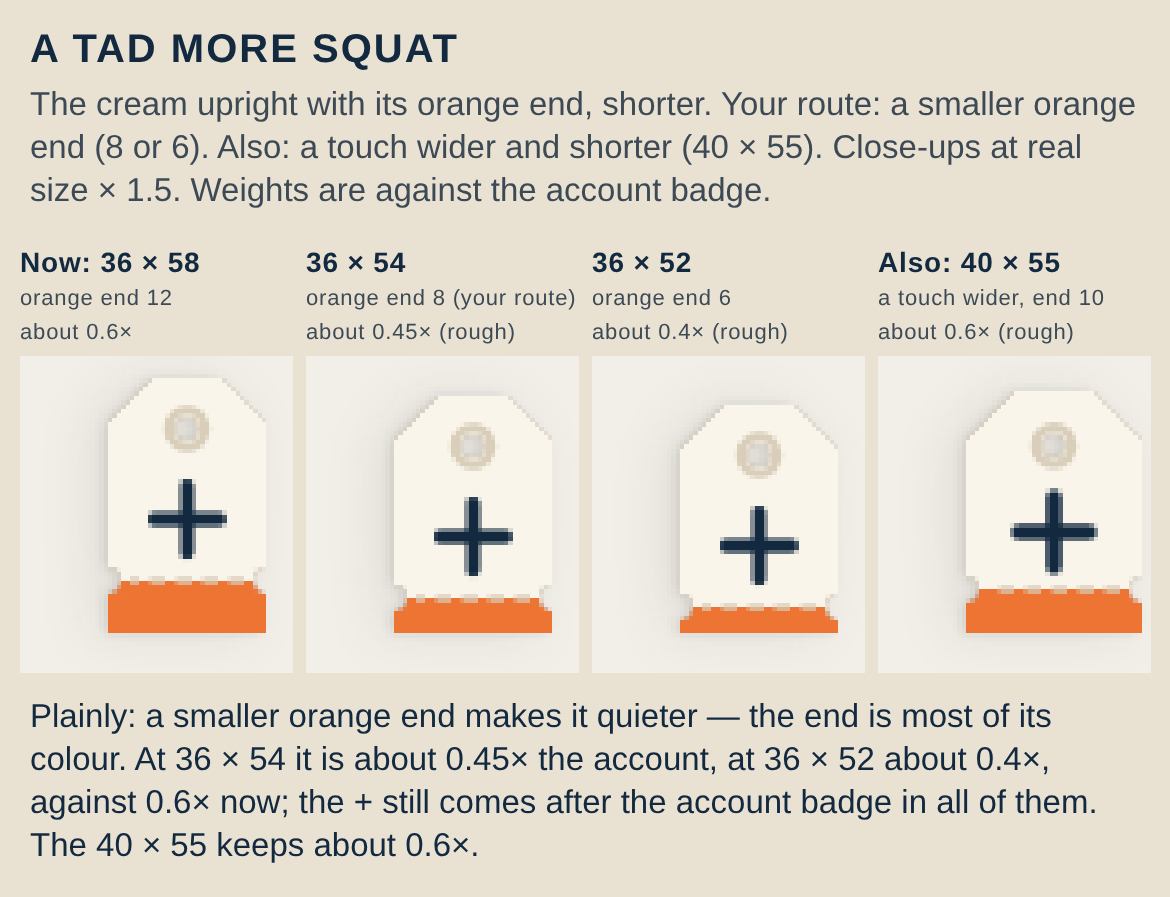
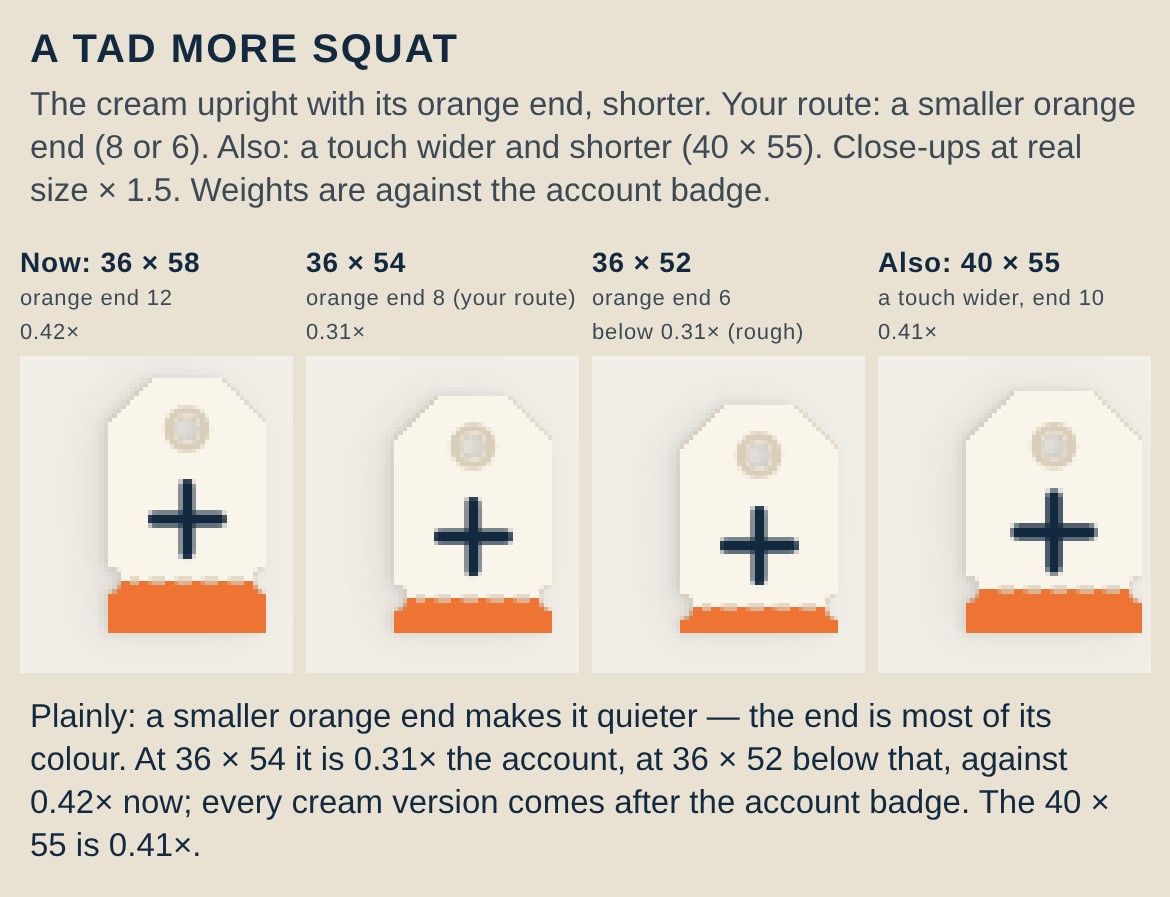
+ placement: round 11c sent (decision)

diff --git a/design/add-button-placement/concepts/blank-tag-form/compose.js b/design/add-button-placement/concepts/blank-tag-form/compose.js
@@ -209,13 +209,13 @@ const pages = {
      <div class="row" style="padding:0 12px;gap:12px;align-items:flex-end">${col('320 × 568', crop(f('r11v-orange-p4-up-320'), 0, 0, 320, 568, 372 / 320, 320, 'border:1px solid #cfc4ae'), 374)}${col('List down', crop(f('r11v-orange-p4-up-collapsed'), 0, 270, 390, 844, 372 / 390, 390, 'border:1px solid #cfc4ae'), 374)}${col('A tag open', crop(f('r11v-orange-p4-up-tag664'), 0, 0, 390, 664, 372 / 390, 390, 'border:1px solid #cfc4ae'), 374)}</div><div class="gap"></div>`,
   // ================= ROUND 11c: a tad more squat =================
   [R11 + 'Q1-squat-options-3x.png']: `${cap('A tad more squat', 'The cream upright with its orange end, shorter. Your route: a smaller orange end (8 or 6). Also: a touch wider and shorter (40 × 55). Close-ups at real size × 1.5. Weights are against the account badge.')}
-     <div class="row" style="padding:0 20px;gap:14px">${col('Now: 36 × 58<br><span style="font-weight:400;font-size:22px;color:#3d4a55">orange end 12<br>about 0.6×</span>', crop1(f('r11v-twoend-p6-up-1x'), 0, 455, 62, 527, 4.4), 272)}${col('36 × 54<br><span style="font-weight:400;font-size:22px;color:#3d4a55">orange end 8 (your route)<br>about 0.45× (rough)</span>', crop1(f('r11q-twoend-q1-up-1x'), 0, 455, 62, 527, 4.4), 272)}${col('36 × 52<br><span style="font-weight:400;font-size:22px;color:#3d4a55">orange end 6<br>about 0.4× (rough)</span>', crop1(f('r11q-twoend-q2-up-1x'), 0, 455, 62, 527, 4.4), 272)}${col('Also: 40 × 55<br><span style="font-weight:400;font-size:22px;color:#3d4a55">a touch wider, end 10<br>about 0.6× (rough)</span>', crop1(f('r11q-twoend-q3-up-1x'), 0, 455, 62, 527, 4.4), 272)}</div>
-     ${note('Plainly: a smaller orange end makes it quieter — the end is most of its colour. At 36 × 54 it is about 0.45× the account, at 36 × 52 about 0.4×, against 0.6× now; the + still comes after the account badge in all of them. The 40 × 55 keeps about 0.6×.')}`,
+     <div class="row" style="padding:0 20px;gap:14px">${col('Now: 36 × 58<br><span style="font-weight:400;font-size:22px;color:#3d4a55">orange end 12<br>0.42×</span>', crop1(f('r11v-twoend-p6-up-1x'), 0, 455, 62, 527, 4.4), 272)}${col('36 × 54<br><span style="font-weight:400;font-size:22px;color:#3d4a55">orange end 8 (your route)<br>0.31×</span>', crop1(f('r11q-twoend-q1-up-1x'), 0, 455, 62, 527, 4.4), 272)}${col('36 × 52<br><span style="font-weight:400;font-size:22px;color:#3d4a55">orange end 6<br>below 0.31× (rough)</span>', crop1(f('r11q-twoend-q2-up-1x'), 0, 455, 62, 527, 4.4), 272)}${col('Also: 40 × 55<br><span style="font-weight:400;font-size:22px;color:#3d4a55">a touch wider, end 10<br>0.41×</span>', crop1(f('r11q-twoend-q3-up-1x'), 0, 455, 62, 527, 4.4), 272)}</div>
+     ${note('Plainly: a smaller orange end makes it quieter — the end is most of its colour. At 36 × 54 it is 0.31× the account, at 36 × 52 below that, against 0.42× now; every cream version comes after the account badge. The 40 × 55 is 0.41×.')}`,
   [R11 + 'Q2-squat-real-size-3x.png']: `${cap('36 × 54 (end 8) at real size', 'As your phone shows it, with the app’s own pins and the account badge.')}
      ${crop1(f('r11q-twoend-q1-up-1x'), 0, 0, 390, 544, 3)}<div class="gap"></div>`,
   [R11 + 'Q3-squat-vs-now-3x.png']: `${cap('Now vs a tad more squat', 'Left: 36 × 58, end 12 (now). Right: 36 × 54, end 8.')}
      ${pair(f('r11v-twoend-p6-up'), '36 × 58 (now)', f('r11q-twoend-q1-up'), '36 × 54', 640)}<div class="gap"></div>`,
-  [R11 + 'Q4-squat-alternative-3x.png']: `${cap('Also: 40 × 55', 'Squatter by being a touch wider as well as shorter, so the orange end can stay at 10 and keep its weight. Left: 36 × 54 (end 8). Right: 40 × 55.')}
+  [R11 + 'Q4-squat-alternative-3x.png']: `${cap('Also: 40 × 55', 'Squatter by being a touch wider as well as shorter, so the orange end can stay at 10: it keeps the most weight of the squat versions. Left: 36 × 54 (end 8). Right: 40 × 55.')}
      ${pair(f('r11q-twoend-q1-up'), '36 × 54', f('r11q-twoend-q3-up'), '40 × 55', 640)}<div class="gap"></div>`,
   [R11 + 'Q5-squat-tag-open-3x.png']: `${cap('36 × 54 with a place’s tag open (390 × 664)', 'It stays and can be tapped; 3 list rows still show.')}${full(f('r11q-twoend-q1-up-tag664'))}<div class="gap"></div>`,
 };

diff --git a/design/add-button-placement/notes/orchestrator.md b/design/add-button-placement/notes/orchestrator.md
@@ -35,3 +35,6 @@
 
 ## 2026-10-15 — round 11b sent
 - Upright 36x58 orange 9 (1.45x account, 1.08x Float; 3 rows kept with gap 90). Sent V2, V7, V5.
+
+## 2026-10-15 — round 11c sent as a decision
+- Cream squat: all cream < account (36x54 0.31x, 40x55 0.41x). Director pick 40x55 on looks; sent Q4, Q1 (captions corrected to measured) as owner decision vs orange.
